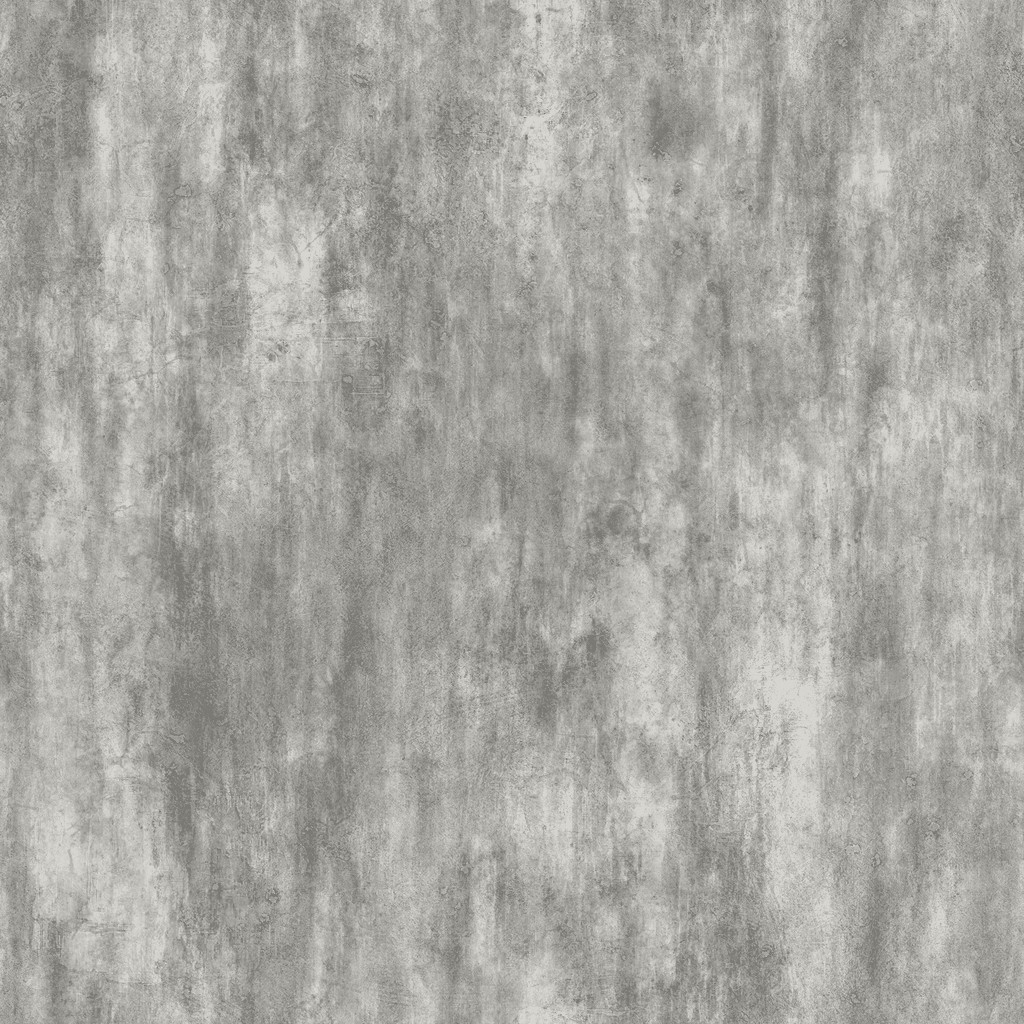
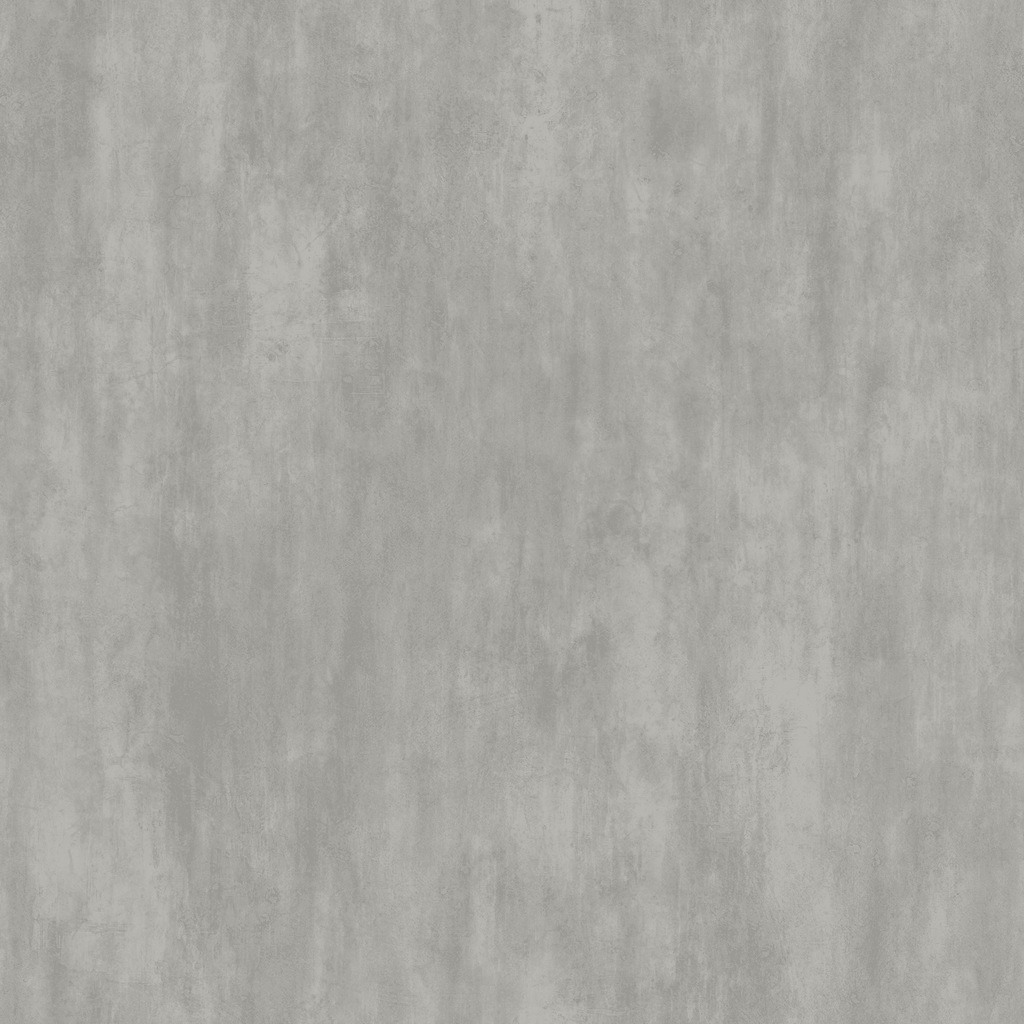
Carry photographed floor normals and roughness from the editor into GLB

diff --git a/src/planner/view3d.js b/src/planner/view3d.js
@@ -8,7 +8,8 @@ import { bbox, dot2, sub2, add2, scale2, len2, norm2, segDist, hexToRgb, mix } f
 import { sizeM, shapeOf, mountOf, partColour, roomWalls, roomFloor } from "./data.js?v=p8";
 import { mainPart } from "./plan.js?v=p8";
 import {createFurnitureModels} from '../furnish/models.js';
-import {floorRecipe} from '../furnish/floor-recipe.mjs';
+import {floorSwatch} from '../furnish/finishes.js';
+import {bulbMaterial} from '../house/room-light-data.mjs';
 import {wallFaces} from './shared.mjs';
 
 const UNIT = new THREE.BoxGeometry(1, 1, 1);
@@ -79,7 +80,8 @@ export class Preview3D {
   }
 
   /* ---------------------------------------------------------------- the room shell */
-  show(state, roomId, selected) {
+  show(state, roomId, selected, lights=false) {
+    this.lights=lights;
     const first = this.roomId !== roomId || this.vkey !== state.vkey;
     if ((!state.runtime || this.modelVersion!==state.house.elements) && this.furniture) {this.furniture.dispose();this.furniture=null;}
     if(state.runtime && !this.furniture) {
@@ -89,7 +91,10 @@ export class Preview3D {
     this.state = state; this.roomId = roomId; this.vkey = state.vkey;
     this.buildShell();
     this.buildItems(selected);
-    if(this.furniture) this.furniture.set(state.layoutItems,{room:roomId}).catch(e=>{
+    if(this.furniture) this.furniture.set(state.layoutItems,{room:roomId}).then(()=>{
+      for(const mesh of this.furniture?.group.children||[])if(bulbMaterial(mesh.material?.name))mesh.material.emissiveIntensity=this.lights?1:0;
+      this.request();
+    }).catch(e=>{
       const label=this.el.querySelector('.three-label'); if(label) label.textContent='Room model unavailable · '+e.message;
     });
     if (first) this.frameCamera();
@@ -111,12 +116,10 @@ export class Preview3D {
     const fl = roomFloor(db, st, room);
     const shape = new THREE.Shape(poly.map(([x, z]) => new THREE.Vector2(x, -z)));
     const g = new THREE.ShapeGeometry(shape); g.rotateX(-Math.PI / 2);
-    const uv = g.attributes.uv, pos = g.attributes.position;
-    for (let i = 0; i < uv.count; i++) uv.setXY(i, pos.getX(i), pos.getZ(i));
-    const recipe=floorRecipe(fl);
-    const tex=recipe.photo?new THREE.TextureLoader().load(new URL('../../tools/library/kit/maps/'+recipe.source,import.meta.url).href,()=>this.request()):floorTexture(fl);
-    if(recipe.photo){tex.wrapS=tex.wrapT=THREE.RepeatWrapping;tex.repeat.set(1/recipe.repeat[0],1/recipe.repeat[1]);tex.colorSpace=THREE.SRGBColorSpace;}
-    const fm = new THREE.MeshStandardMaterial({ map: tex, roughness: recipe.roughness??.75 });
+    const swatch=floorSwatch(fl),fm=swatch.material;
+    const uv=g.attributes.uv,pos=g.attributes.position;
+    for(let i=0;i<uv.count;i++)uv.setXY(i,pos.getX(i)/swatch.tile[0],pos.getZ(i)/swatch.tile[1]);
+    swatch.ready.then(()=>this.request());
     const floor = new THREE.Mesh(g, fm); floor.position.y = f; this.room.add(floor);
     /* walls: one slab outside each edge of the room polygon, cut where an opening sits on that edge */
     const wc = roomWalls(db, st, room), acc = st.rooms.get(room.id)?.accent;
@@ -225,7 +228,7 @@ export class Preview3D {
           const box=new THREE.LineSegments(lines,new THREE.LineBasicMaterial({color:0x377bb2}));
           box.position.set(p[0],p[1]+h/2,p[2]);box.rotation.y=it.yaw_deg*Math.PI/180;box.userData.helper=true;this.items.add(box);
         }
-        if(it.lampOn && lampCount<6 && it.category==='lighting') {
+        if(this.lights && lampCount<6 && it.category==='lighting') {
           const lamp=new THREE.PointLight(0xffd9a0,2.2,5,1.6);
           lamp.position.set(it.position_m[0],it.position_m[1]+it.size_mm[2]/1000*.75,it.position_m[2]);this.scene.add(lamp);this.lamps.push(lamp);lampCount++;
         }
@@ -240,7 +243,7 @@ export class Preview3D {
       if (it.id === selected) {
         const box = new THREE.BoxHelper(g, 0x2f7fd0); box.userData.helper = true; this.items.add(box);
       }
-      if (it.lampOn && lampCount < 6 && /lamp|light|pendant/.test(shapeOf(this.db, it) + it.category)) {
+      if (this.lights && lampCount < 6 && /lamp|light|pendant/.test(shapeOf(this.db, it) + it.category)) {
         const L = new THREE.PointLight(0xffd9a0, 2.2, 5, 1.6);
         L.position.set(it.position_m[0], (mountOf(this.db, it) === "ceiling" ? g.position.y : it.position_m[1] + it.size_mm[2] / 1000 * 0.85), it.position_m[2]);
         this.scene.add(L); this.lamps.push(L); lampCount++;
@@ -251,7 +254,7 @@ export class Preview3D {
     const db = this.db, st = this.state, [W, D, Hh] = sizeM(it), H = Math.max(Hh, 0.01), shape = shapeOf(db, it);
     const c = p => partColour(db, st, it, p, "#C9C2B6").hex;
     const main = c(mainPart(it)), g = new THREE.Group();
-    const lit = it.lampOn;
+    const lit = this.lights;
     const box = (w, h, d, x, y, z, hex, o) => { const m = new THREE.Mesh(UNIT, this.mat(hex, o)); m.scale.set(Math.max(w, 0.005), Math.max(h, 0.005), Math.max(d, 0.005)); m.position.set(x, y, z); g.add(m); return m; };
     const cyl = (r, h, x, y, z, hex, o, geo = CYL) => { const m = new THREE.Mesh(geo, this.mat(hex, o)); m.scale.set(r * 2, h, r * 2); m.position.set(x, y, z); g.add(m); return m; };
     const legs = (w, d, h, hex, r = 0.02) => { for (const sx of [-1, 1]) for (const sz of [-1, 1]) cyl(r, h, sx * (w / 2 - r * 2), h / 2, sz * (d / 2 - r * 2), hex); };
@@ -363,42 +366,6 @@ export class Preview3D {
   }
 }
 
-function floorTexture(fl) {
-  const cv = document.createElement("canvas"); cv.width = cv.height = 512;
-  const x = cv.getContext("2d"), [r, g, b] = hexToRgb(fl.hex);
-  x.fillStyle = fl.hex; x.fillRect(0, 0, 512, 512);
-  const pat = fl.pattern || "planks", u = fl.unit_mm || [190, 1900];
-  const px = 512 / 2;                                   // the texture covers 2 m
-  const shade = k => `rgb(${r * k | 0},${g * k | 0},${b * k | 0})`;
-  if (pat === "planks") {
-    const w = (u[0] / 1000) * px, L = (u[1] / 1000) * px;
-    for (let i = 0; i * w < 512; i++) {
-      const off = ((i * 0.37) % 1) * L;
-      for (let j = -1; j * L < 512 + L; j++) {
-        x.fillStyle = shade(0.9 + ((i * 7 + j * 3) % 5) * 0.04); x.fillRect(i * w, j * L + off, w - 1, L - 1);
-      }
-    }
-  } else if (pat === "herringbone") {
-    const w = (u[0] / 1000) * px, L = (u[1] / 1000) * px;
-    x.save(); x.translate(256, 256); x.rotate(Math.PI / 4);
-    for (let i = -14; i < 14; i++) for (let j = -14; j < 14; j++) {
-      x.fillStyle = shade(0.9 + (((i + j) % 4) + 4) % 4 * 0.04);
-      if ((i + j) % 2) x.fillRect(i * L * 0.5, j * w * 2, L - 1, w - 1); else x.fillRect(i * L * 0.5, j * w * 2 + w, w - 1, L - 1);
-    }
-    x.restore();
-  } else if (pat === "tiles" || pat === "pattern") {
-    const w = (u[0] / 1000) * px, hh = (u[1] / 1000) * px;
-    x.strokeStyle = shade(0.8); x.lineWidth = 2;
-    for (let i = 0; i * w <= 512; i++) for (let j = 0; j * hh <= 512; j++) {
-      x.fillStyle = shade(0.95 + ((i * 3 + j * 5) % 4) * 0.02); x.fillRect(i * w, j * hh, w, hh); x.strokeRect(i * w, j * hh, w, hh);
-      if (pat === "pattern") { x.fillStyle = shade(0.75); x.beginPath(); x.arc(i * w + w / 2, j * hh + hh / 2, w * 0.25, 0, 7); x.fill(); }
-    }
-  } else {
-    for (let i = 0; i < 2500; i++) { x.fillStyle = shade(0.92 + Math.random() * 0.12); x.fillRect(Math.random() * 512, Math.random() * 512, 2, 2); }
-  }
-  const t = new THREE.CanvasTexture(cv); t.wrapS = t.wrapT = THREE.RepeatWrapping; t.repeat.set(0.5, 0.5); t.colorSpace = THREE.SRGBColorSpace;
-  return t;
-}
 const ART = ["#C9B79C", "#8FA3A8", "#B5694B", "#D8CEBF", "#6E7F6A", "#3E4A57"];
 const artColour = id => ART[[...id].reduce((a, ch) => a + ch.charCodeAt(0), 0) % ART.length];
 function signedArea(p) { let a = 0; for (let i = 0; i < p.length; i++) { const q = p[i], r = p[(i + 1) % p.length]; a += q[0] * r[1] - r[0] * q[1]; } return a / 2; }
@@ -412,7 +379,7 @@ function insideTest([x, z], poly) {
 }
 function disposeGroup(g, geo = true) {
   for (const c of [...g.children]) {
-    c.traverse(o => { if (o.userData?.helper) {o.geometry?.dispose();o.material?.dispose();} if (o.isMesh && o.geometry !== UNIT && o.geometry !== CYL && o.geometry !== CONE && o.geometry !== SPH && geo) { o.geometry.dispose(); if (o.material?.map) o.material.map.dispose(); } });
+    c.traverse(o => { if (o.userData?.helper) {o.geometry?.dispose();o.material?.dispose();} if (o.isMesh && o.geometry !== UNIT && o.geometry !== CYL && o.geometry !== CONE && o.geometry !== SPH && geo) { o.geometry.dispose(); if (o.material?.map && !o.material.userData.studioFloor) o.material.map.dispose(); } });
     g.remove(c);
   }
 }

diff --git a/src/furnish/finishes.js b/src/furnish/finishes.js
@@ -3,13 +3,23 @@ import {floorRecipe} from './floor-recipe.mjs';
 
 const cached=new Map();
 const maps=new URL('../../tools/library/kit/maps/',import.meta.url);
-function floorSwatch(def){
+export function floorSwatch(def){
   if(cached.has(def.id))return cached.get(def.id);
   const recipe=floorRecipe(def),c=document.createElement('canvas');c.width=c.height=recipe.n;
   const ctx=c.getContext('2d'),tile=recipe.repeat;
-  const texture=new THREE.CanvasTexture(c);texture.colorSpace=THREE.SRGBColorSpace;texture.wrapS=texture.wrapT=THREE.RepeatWrapping;
+  const texture=new THREE.CanvasTexture(c);texture.colorSpace=THREE.SRGBColorSpace;texture.anisotropy=4;texture.wrapS=texture.wrapT=THREE.RepeatWrapping;
+  const jobs=[];
   const material=new THREE.MeshStandardMaterial({map:texture,roughness:recipe.roughness??.82,metalness:0});
-  material.name='Client floor · '+def.id;
+  material.name='Client floor · '+def.id;material.userData.studioFloor=true;
+  for(const [slot,file] of [['normalMap',recipe.normal],['roughnessMap',recipe.rough]]){
+    if(!file)continue;
+    const loader=new THREE.TextureLoader();
+    let finish;
+    jobs.push(new Promise(resolve=>{finish=resolve;}));
+    const map=loader.load(new URL(file,maps).href,finish,undefined,finish);
+    map.anisotropy=4;map.wrapS=map.wrapT=THREE.RepeatWrapping;material[slot]=map;
+  }
+  material.normalScale.setScalar(recipe.relief??1);
   const paint=image=>{
     const n=c.width;ctx.fillStyle=recipe.base;ctx.fillRect(0,0,n,n);
     if(image){ctx.globalAlpha=recipe.photo?1:.33;ctx.globalCompositeOperation=recipe.photo?'source-over':'multiply';ctx.drawImage(image,0,0,n,n);ctx.globalCompositeOperation='source-over';ctx.globalAlpha=1;}
@@ -20,10 +30,10 @@ function floorSwatch(def){
   };
   paint(null);
   const file=recipe.source;
-  if(file){const im=new Image();im.onload=()=>paint(im);im.src=new URL(file,maps);}
-  const swatch={material,tile};cached.set(def.id,swatch);return swatch;
+  if(file)jobs.push(new Promise(resolve=>{const im=new Image();im.onload=()=>{paint(im);resolve();};im.onerror=resolve;im.src=new URL(file,maps);}));
+  const swatch={material,tile,ready:Promise.all(jobs)};cached.set(def.id,swatch);return swatch;
 }
-export function createFinishOverrides(model,floors){
+export function createFinishOverrides(model,floors,onReady){
   const active=new Map();
   const parts=model.parts.filter(p=>{
     const id=p.ud?.surface_id,role=p.ud?.surface_role;
@@ -37,7 +47,7 @@ export function createFinishOverrides(model,floors){
       if(value===active.get(p))continue;
       if(isFloor){
         const def=defs.get(typeof value==='string'?value:value?.id);
-        if(def){const s=floorSwatch(def);model.coverFloor(p,s.material,s.tile);}else model.coverFloor(p,null);
+        if(def){const s=floorSwatch(def);model.coverFloor(p,s.material,s.tile);if(onReady)s.ready.then(onReady);}else model.coverFloor(p,null);
       }else model.paintPart(p,value||null);
       if(value==null)active.delete(p);else active.set(p,value);
     }

diff --git a/tools/review/floor-detail.html b/tools/review/floor-detail.html
@@ -1,0 +1,26 @@
+<!doctype html><meta charset="utf-8"><title>Studio floor detail check</title>
+<style>*{box-sizing:border-box}body{margin:0;background:#eae6dc;color:#26372e;font:16px system-ui;padding:18px}h1{font:600 22px system-ui;margin:0}p{margin:5px 0 12px}main{display:grid;grid-template-columns:repeat(3,1fr);gap:10px}figure{margin:0}canvas{display:block;width:100%;height:auto;background:#b8b2a6}figcaption{font-size:14px;margin:3px 0 7px}</style>
+<h1>Room floor finishes</h1><p>Identical camera and grazing light. The lower row uses the normal and roughness maps in the saved house model.</p><main></main>
+<script type="importmap">{"imports":{"three":"/assets/vendor/three/build/three.module.js","three/addons/":"/assets/vendor/three/examples/jsm/"}}</script>
+<script type="module">
+import * as T from 'three';
+import {RoomEnvironment} from 'three/addons/environments/RoomEnvironment.js';
+import {floorSwatch} from '../../src/furnish/finishes.js';
+const floors=(await (await fetch('/assets/sites/house/spec/catalogue_v1.json')).json()).floors;
+const renderer=new T.WebGLRenderer({antialias:true,preserveDrawingBuffer:true});
+renderer.setSize(440,230);renderer.toneMapping=T.NeutralToneMapping;
+const scene=new T.Scene(),env=new T.PMREMGenerator(renderer),room=new RoomEnvironment(),map=env.fromScene(room);
+scene.environment=map.texture;scene.environmentIntensity=.42;
+const light=new T.DirectionalLight(0xffeee2,3);light.position.set(-1.8,.65,-1.2);scene.add(light);
+const camera=new T.PerspectiveCamera(42,440/230,.01,10);camera.position.set(.04,.24,.40);camera.lookAt(0,0,0);
+const plane=new T.Mesh(new T.PlaneGeometry(6,6));plane.rotation.x=-Math.PI/2;scene.add(plane);
+for(const detail of [false,true])for(const [id,label] of [['FLR-CARPET-OAT','Oatmeal wool'],['FLR-SISAL','Sisal'],['FLR-CONCRETE','Polished concrete']]){
+  const def=floors.find(f=>f.id===id),swatch=floorSwatch(def);await swatch.ready;
+  const m=swatch.material.clone();if(!detail){m.normalMap=m.roughnessMap=null;m.roughness=id==='FLR-CONCRETE' ? .3 : .97;}
+  plane.material=m;const uv=plane.geometry.attributes.uv,pos=plane.geometry.attributes.position;
+  for(let i=0;i<uv.count;i++)uv.setXY(i,pos.getX(i)/swatch.tile[0],-pos.getY(i)/swatch.tile[1]);
+  renderer.render(scene,camera);const c=document.createElement('canvas');c.width=440;c.height=230;c.getContext('2d').drawImage(renderer.domElement,0,0);
+  const fig=document.createElement('figure'),caption=document.createElement('figcaption');caption.textContent=label+' · '+(detail?'surface detail':'colour only');fig.append(c,caption);document.querySelector('main').append(fig);m.dispose();
+}
+document.body.dataset.ready='1';plane.geometry.dispose();renderer.dispose();map.dispose();room.dispose();env.dispose();
+</script>
